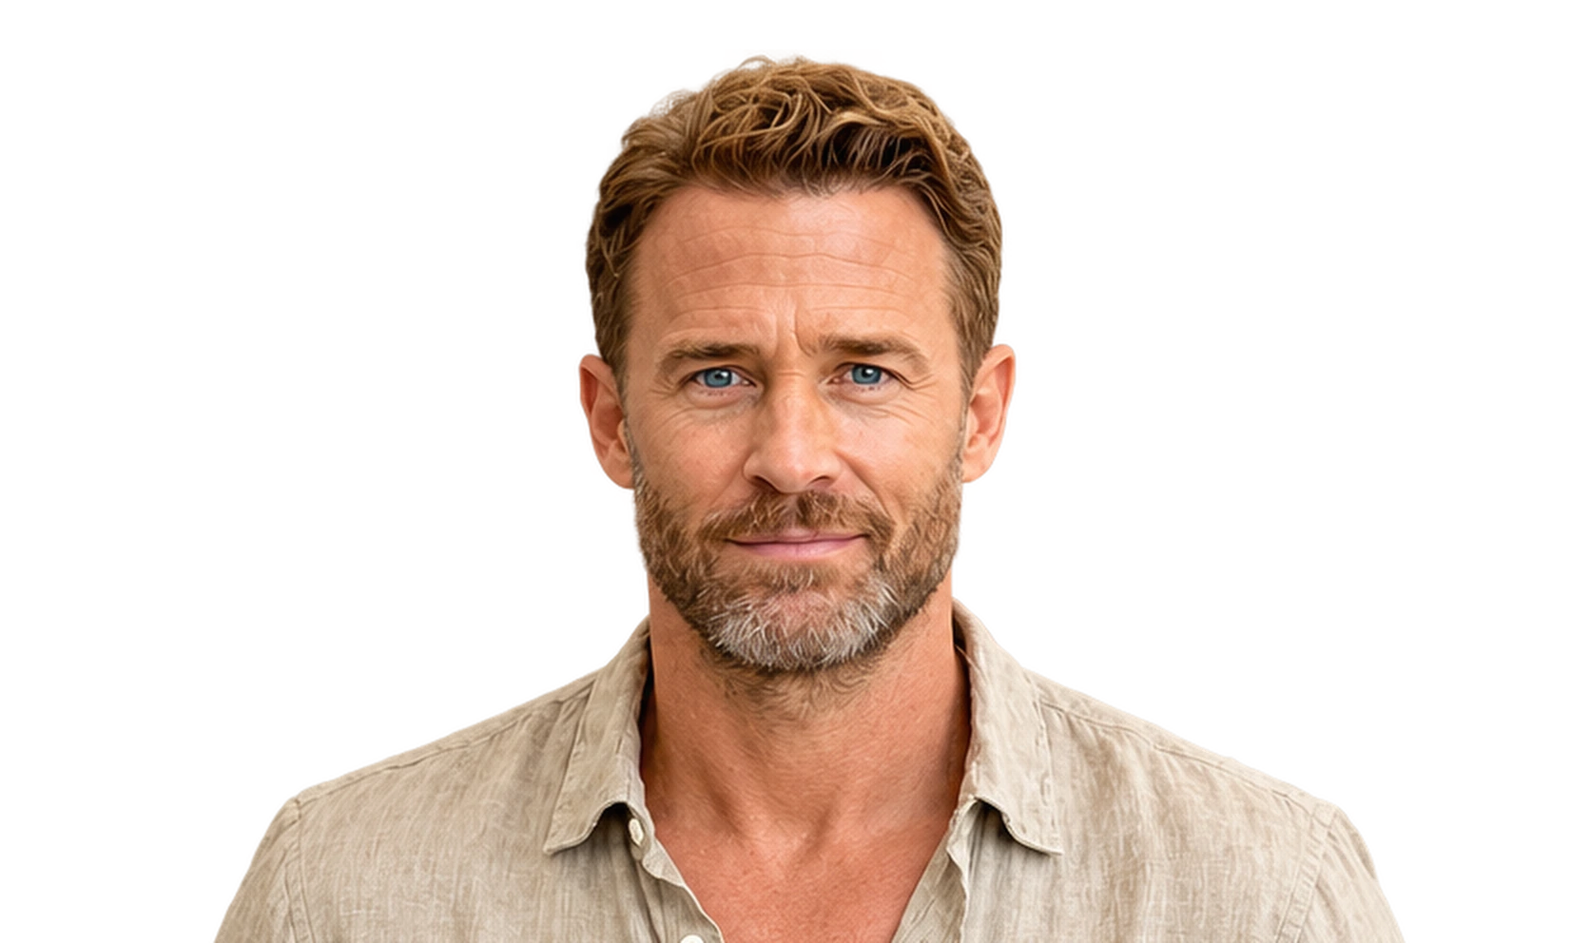
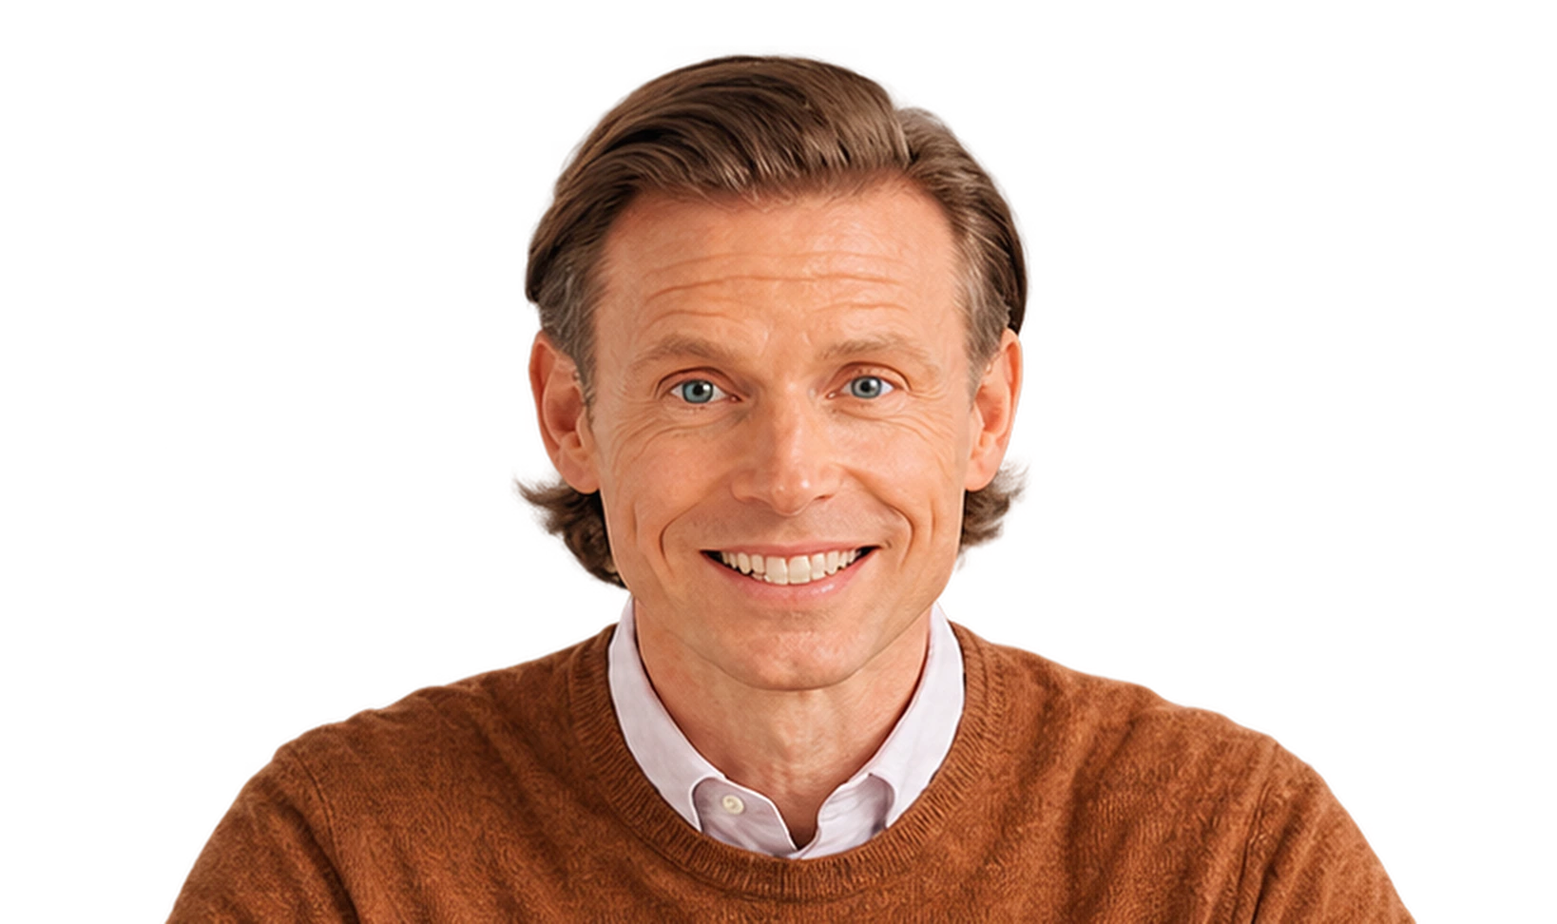
Use LiveAvatar characters for Lisa (Hannah) and Felix (Matthew), show the device section as a call
Hero portraits come from the transparent double portrait; laptop and phone
screens are catalogue stills with call controls drawn by the importer.

diff --git a/content/de/home.html b/content/de/home.html
@@ -46,8 +46,19 @@
 <div style="height:1px;background:linear-gradient(90deg,transparent,rgba(233,181,74,.6),transparent)"></div>
 
 <section style="display:flex;flex-wrap:wrap;align-items:center;gap:32px 48px;padding:36px 48px;background:url(/design/assets/bg-s2r.png) right top/min(30%,380px) auto no-repeat,url(/design/assets/bg-s2l.png) left center/min(11%,140px) auto no-repeat">
-  <div style="flex:1 1 440px;min-width:0;display:flex;justify-content:center">
-    <img src="/design/assets/call.webp" alt="Videogespräch mit Felix am Laptop und mit Lisa auf dem Smartphone" width="1498" height="896" style="display:block;width:100%;max-width:560px;height:auto">
+  <div style="flex:1 1 440px;min-width:0;display:flex;align-items:flex-end;justify-content:center">
+    <div style="flex:1;min-width:0;max-width:420px">
+      <div style="position:relative;aspect-ratio:16/10;border:8px solid #1c1c1e;border-radius:14px 14px 0 0;background:#000;overflow:hidden">
+        <img src="/design/assets/laptop.webp" alt="Video-Call Felix" style="position:absolute;inset:0;width:100%;height:100%;object-fit:cover;display:block"><div style="position:absolute;inset:0;container-type:inline-size;pointer-events:none;background:linear-gradient(180deg,rgba(0,0,0,.22),transparent 24%,transparent 68%,rgba(0,0,0,.38))"><span style="position:absolute;left:2.6cqw;top:2.6cqw;display:flex;align-items:center;gap:1.2000000000000002cqw;padding:0.828cqw 1.8399999999999999cqw;border-radius:99px;background:rgba(38,38,40,.86);font:600 2.3cqw/1.2 'Quicksand',sans-serif;color:#fff;font-variant-numeric:tabular-nums"><span style="display:block;width:1.5cqw;height:1.5cqw;border-radius:50%;background:#34c759"></span>00:12</span><span style="position:absolute;right:2.6cqw;top:2.6cqw;display:flex;gap:1.68cqw"><span style="display:flex;align-items:center;justify-content:center;flex:none;width:4.6cqw;height:4.6cqw;border-radius:50%;background:rgba(38,38,40,.86)"><svg viewBox="0 0 24 24" fill="none" stroke="#fff" stroke-width="2" stroke-linecap="round" stroke-linejoin="round" style="width:54%;height:54%"><path d="M4 9V4h5M15 4h5v5M20 15v5h-5M9 20H4v-5"/></svg></span><span style="display:flex;align-items:center;justify-content:center;flex:none;width:4.6cqw;height:4.6cqw;border-radius:50%;background:rgba(38,38,40,.86)"><svg viewBox="0 0 24 24" fill="none" stroke="#fff" stroke-width="2" stroke-linecap="round" stroke-linejoin="round" style="width:54%;height:54%"><circle cx="12" cy="12" r="3"/><path d="M12 3v3M12 18v3M3 12h3M18 12h3M5.600 5.600l2.100 2.100M16.300 16.300l2.100 2.100M18.400 5.600l-2.100 2.100M7.700 16.300l-2.100 2.100"/></svg></span></span><span style="position:absolute;left:0;right:0;bottom:3.6cqw;display:flex;align-items:center;justify-content:center;gap:2.4cqw"><span style="display:flex;align-items:center;justify-content:center;flex:none;width:5.8cqw;height:5.8cqw;border-radius:50%;background:rgba(38,38,40,.86)"><svg viewBox="0 0 24 24" fill="none" stroke="#fff" stroke-width="2" stroke-linecap="round" stroke-linejoin="round" style="width:54%;height:54%"><rect x="9" y="3" width="6" height="11" rx="3"/><path d="M5 11a7 7 0 0 0 14 0M12 18v3"/></svg></span><span style="display:flex;align-items:center;justify-content:center;flex:none;width:5.8cqw;height:5.8cqw;border-radius:50%;background:rgba(38,38,40,.86)"><svg viewBox="0 0 24 24" fill="none" stroke="#fff" stroke-width="2" stroke-linecap="round" stroke-linejoin="round" style="width:54%;height:54%"><rect x="3" y="7" width="12" height="10" rx="2"/><path d="M15 11l6-3v8l-6-3z"/></svg></span><span style="display:flex;align-items:center;justify-content:center;flex:none;width:6.8cqw;height:6.8cqw;border-radius:50%;background:#ff3b30"><svg viewBox="0 0 24 24" fill="none" stroke="#fff" stroke-width="2" stroke-linecap="round" stroke-linejoin="round" style="width:54%;height:54%"><path d="M2.5 14.2c5.4-5.2 13.6-5.2 19 0l-2.6 2.6-3.6-2v-2.6c-2.1-.7-4.5-.7-6.6 0v2.6l-3.6 2z" fill="#fff" stroke="none"/></svg></span><span style="display:flex;align-items:center;justify-content:center;flex:none;width:5.8cqw;height:5.8cqw;border-radius:50%;background:rgba(38,38,40,.86)"><svg viewBox="0 0 24 24" fill="none" stroke="#fff" stroke-width="2" stroke-linecap="round" stroke-linejoin="round" style="width:54%;height:54%"><circle cx="9" cy="9" r="3"/><path d="M3 19c0-3.3 2.7-5 6-5s6 1.700 6 5M16 6.500a3 3 0 0 1 0 5.500M17.500 14.500c2.200.600 3.500 2.100 3.500 4.500"/></svg></span><span style="display:flex;align-items:center;justify-content:center;flex:none;width:5.8cqw;height:5.8cqw;border-radius:50%;background:rgba(38,38,40,.86)"><svg viewBox="0 0 24 24" fill="none" stroke="#fff" stroke-width="2" stroke-linecap="round" stroke-linejoin="round" style="width:54%;height:54%"><path d="M4 5h16v11H9l-5 4z"/></svg></span></span></div>
+        
+        
+      </div>
+      <div style="height:12px;margin:0 -6%;background:linear-gradient(180deg,#d8d8da,#8a8a8e);border-radius:0 0 12px 12px"></div>
+    </div>
+    <div style="flex:none;width:112px;margin-left:-28px;position:relative;z-index:1;aspect-ratio:9/18;border:6px solid #1c1c1e;border-radius:22px;background:#000;overflow:hidden;box-shadow:0 8px 30px rgba(0,0,0,.6)">
+      <img src="/design/assets/phone.webp" alt="Lisa" style="position:absolute;inset:0;width:100%;height:100%;object-fit:cover;display:block"><div style="position:absolute;inset:0;container-type:inline-size;pointer-events:none;background:linear-gradient(180deg,rgba(0,0,0,.22),transparent 24%,transparent 68%,rgba(0,0,0,.38))"><span style="position:absolute;left:6cqw;top:9cqw;display:flex;align-items:center;gap:4cqw;padding:2.6999999999999997cqw 6cqw;border-radius:99px;background:rgba(38,38,40,.86);font:600 7.5cqw/1.2 'Quicksand',sans-serif;color:#fff;font-variant-numeric:tabular-nums"><span style="display:block;width:5cqw;height:5cqw;border-radius:50%;background:#34c759"></span>00:12</span><span style="position:absolute;right:6cqw;top:9cqw;display:flex;gap:1.8199999999999998cqw"><span style="display:flex;align-items:center;justify-content:center;flex:none;width:13cqw;height:13cqw;border-radius:50%;background:rgba(38,38,40,.86)"><svg viewBox="0 0 24 24" fill="none" stroke="#fff" stroke-width="2" stroke-linecap="round" stroke-linejoin="round" style="width:54%;height:54%"><path d="M4 9V4h5M15 4h5v5M20 15v5h-5M9 20H4v-5"/></svg></span></span><span style="position:absolute;right:6cqw;bottom:28cqw;display:block;width:27cqw;aspect-ratio:3/4;border-radius:4cqw;overflow:hidden;box-shadow:0 0 0 1px rgba(255,255,255,.55),0 2px 8px rgba(0,0,0,.5);background:url(/design/assets/laptop.webp) 50% 20%/260% auto no-repeat"></span><span style="position:absolute;left:0;right:0;bottom:7cqw;display:flex;align-items:center;justify-content:center;gap:2.6cqw"><span style="display:flex;align-items:center;justify-content:center;flex:none;width:13.5cqw;height:13.5cqw;border-radius:50%;background:rgba(38,38,40,.86)"><svg viewBox="0 0 24 24" fill="none" stroke="#fff" stroke-width="2" stroke-linecap="round" stroke-linejoin="round" style="width:54%;height:54%"><rect x="9" y="3" width="6" height="11" rx="3"/><path d="M5 11a7 7 0 0 0 14 0M12 18v3"/></svg></span><span style="display:flex;align-items:center;justify-content:center;flex:none;width:13.5cqw;height:13.5cqw;border-radius:50%;background:rgba(38,38,40,.86)"><svg viewBox="0 0 24 24" fill="none" stroke="#fff" stroke-width="2" stroke-linecap="round" stroke-linejoin="round" style="width:54%;height:54%"><rect x="3" y="7" width="12" height="10" rx="2"/><path d="M15 11l6-3v8l-6-3z"/></svg></span><span style="display:flex;align-items:center;justify-content:center;flex:none;width:16cqw;height:16cqw;border-radius:50%;background:#ff3b30"><svg viewBox="0 0 24 24" fill="none" stroke="#fff" stroke-width="2" stroke-linecap="round" stroke-linejoin="round" style="width:54%;height:54%"><path d="M2.5 14.2c5.4-5.2 13.6-5.2 19 0l-2.6 2.6-3.6-2v-2.6c-2.1-.7-4.5-.7-6.6 0v2.6l-3.6 2z" fill="#fff" stroke="none"/></svg></span><span style="display:flex;align-items:center;justify-content:center;flex:none;width:13.5cqw;height:13.5cqw;border-radius:50%;background:rgba(38,38,40,.86)"><svg viewBox="0 0 24 24" fill="none" stroke="#fff" stroke-width="2" stroke-linecap="round" stroke-linejoin="round" style="width:54%;height:54%"><circle cx="9" cy="9" r="3"/><path d="M3 19c0-3.3 2.7-5 6-5s6 1.700 6 5M16 6.500a3 3 0 0 1 0 5.500M17.500 14.500c2.200.600 3.500 2.100 3.500 4.500"/></svg></span><span style="display:flex;align-items:center;justify-content:center;flex:none;width:13.5cqw;height:13.5cqw;border-radius:50%;background:rgba(38,38,40,.86)"><svg viewBox="0 0 24 24" fill="none" stroke="#fff" stroke-width="2" stroke-linecap="round" stroke-linejoin="round" style="width:54%;height:54%"><path d="M4 5h16v11H9l-5 4z"/></svg></span></span></div>
+      
+    </div>
   </div>
   <div style="flex:1 1 360px;min-width:0">
     <h2 style="margin:0;font-size:clamp(26px,2.8vw,34px);line-height:1.2;font-weight:700">Ein echtes Gespräch.<br>Keine Chat-Funktion.</h2>

diff --git a/content/en/home.html b/content/en/home.html
@@ -46,8 +46,19 @@
 <div style="height:1px;background:linear-gradient(90deg,transparent,rgba(233,181,74,.6),transparent)"></div>
 
 <section style="display:flex;flex-wrap:wrap;align-items:center;gap:32px 48px;padding:36px 48px;background:url(/design/assets/bg-s2r.png) right top/min(30%,380px) auto no-repeat,url(/design/assets/bg-s2l.png) left center/min(11%,140px) auto no-repeat">
-  <div style="flex:1 1 440px;min-width:0;display:flex;justify-content:center">
-    <img src="/design/assets/call.webp" alt="Video call with Felix on a laptop and with Lisa on a phone" width="1498" height="896" style="display:block;width:100%;max-width:560px;height:auto">
+  <div style="flex:1 1 440px;min-width:0;display:flex;align-items:flex-end;justify-content:center">
+    <div style="flex:1;min-width:0;max-width:420px">
+      <div style="position:relative;aspect-ratio:16/10;border:8px solid #1c1c1e;border-radius:14px 14px 0 0;background:#000;overflow:hidden">
+        <img src="/design/assets/laptop.webp" alt="Video call Felix" style="position:absolute;inset:0;width:100%;height:100%;object-fit:cover;display:block"><div style="position:absolute;inset:0;container-type:inline-size;pointer-events:none;background:linear-gradient(180deg,rgba(0,0,0,.22),transparent 24%,transparent 68%,rgba(0,0,0,.38))"><span style="position:absolute;left:2.6cqw;top:2.6cqw;display:flex;align-items:center;gap:1.2000000000000002cqw;padding:0.828cqw 1.8399999999999999cqw;border-radius:99px;background:rgba(38,38,40,.86);font:600 2.3cqw/1.2 'Quicksand',sans-serif;color:#fff;font-variant-numeric:tabular-nums"><span style="display:block;width:1.5cqw;height:1.5cqw;border-radius:50%;background:#34c759"></span>00:12</span><span style="position:absolute;right:2.6cqw;top:2.6cqw;display:flex;gap:1.68cqw"><span style="display:flex;align-items:center;justify-content:center;flex:none;width:4.6cqw;height:4.6cqw;border-radius:50%;background:rgba(38,38,40,.86)"><svg viewBox="0 0 24 24" fill="none" stroke="#fff" stroke-width="2" stroke-linecap="round" stroke-linejoin="round" style="width:54%;height:54%"><path d="M4 9V4h5M15 4h5v5M20 15v5h-5M9 20H4v-5"/></svg></span><span style="display:flex;align-items:center;justify-content:center;flex:none;width:4.6cqw;height:4.6cqw;border-radius:50%;background:rgba(38,38,40,.86)"><svg viewBox="0 0 24 24" fill="none" stroke="#fff" stroke-width="2" stroke-linecap="round" stroke-linejoin="round" style="width:54%;height:54%"><circle cx="12" cy="12" r="3"/><path d="M12 3v3M12 18v3M3 12h3M18 12h3M5.600 5.600l2.100 2.100M16.300 16.300l2.100 2.100M18.400 5.600l-2.100 2.100M7.700 16.300l-2.100 2.100"/></svg></span></span><span style="position:absolute;left:0;right:0;bottom:3.6cqw;display:flex;align-items:center;justify-content:center;gap:2.4cqw"><span style="display:flex;align-items:center;justify-content:center;flex:none;width:5.8cqw;height:5.8cqw;border-radius:50%;background:rgba(38,38,40,.86)"><svg viewBox="0 0 24 24" fill="none" stroke="#fff" stroke-width="2" stroke-linecap="round" stroke-linejoin="round" style="width:54%;height:54%"><rect x="9" y="3" width="6" height="11" rx="3"/><path d="M5 11a7 7 0 0 0 14 0M12 18v3"/></svg></span><span style="display:flex;align-items:center;justify-content:center;flex:none;width:5.8cqw;height:5.8cqw;border-radius:50%;background:rgba(38,38,40,.86)"><svg viewBox="0 0 24 24" fill="none" stroke="#fff" stroke-width="2" stroke-linecap="round" stroke-linejoin="round" style="width:54%;height:54%"><rect x="3" y="7" width="12" height="10" rx="2"/><path d="M15 11l6-3v8l-6-3z"/></svg></span><span style="display:flex;align-items:center;justify-content:center;flex:none;width:6.8cqw;height:6.8cqw;border-radius:50%;background:#ff3b30"><svg viewBox="0 0 24 24" fill="none" stroke="#fff" stroke-width="2" stroke-linecap="round" stroke-linejoin="round" style="width:54%;height:54%"><path d="M2.5 14.2c5.4-5.2 13.6-5.2 19 0l-2.6 2.6-3.6-2v-2.6c-2.1-.7-4.5-.7-6.6 0v2.6l-3.6 2z" fill="#fff" stroke="none"/></svg></span><span style="display:flex;align-items:center;justify-content:center;flex:none;width:5.8cqw;height:5.8cqw;border-radius:50%;background:rgba(38,38,40,.86)"><svg viewBox="0 0 24 24" fill="none" stroke="#fff" stroke-width="2" stroke-linecap="round" stroke-linejoin="round" style="width:54%;height:54%"><circle cx="9" cy="9" r="3"/><path d="M3 19c0-3.3 2.7-5 6-5s6 1.700 6 5M16 6.500a3 3 0 0 1 0 5.500M17.500 14.500c2.200.600 3.500 2.100 3.500 4.500"/></svg></span><span style="display:flex;align-items:center;justify-content:center;flex:none;width:5.8cqw;height:5.8cqw;border-radius:50%;background:rgba(38,38,40,.86)"><svg viewBox="0 0 24 24" fill="none" stroke="#fff" stroke-width="2" stroke-linecap="round" stroke-linejoin="round" style="width:54%;height:54%"><path d="M4 5h16v11H9l-5 4z"/></svg></span></span></div>
+        
+        
+      </div>
+      <div style="height:12px;margin:0 -6%;background:linear-gradient(180deg,#d8d8da,#8a8a8e);border-radius:0 0 12px 12px"></div>
+    </div>
+    <div style="flex:none;width:112px;margin-left:-28px;position:relative;z-index:1;aspect-ratio:9/18;border:6px solid #1c1c1e;border-radius:22px;background:#000;overflow:hidden;box-shadow:0 8px 30px rgba(0,0,0,.6)">
+      <img src="/design/assets/phone.webp" alt="Lisa" style="position:absolute;inset:0;width:100%;height:100%;object-fit:cover;display:block"><div style="position:absolute;inset:0;container-type:inline-size;pointer-events:none;background:linear-gradient(180deg,rgba(0,0,0,.22),transparent 24%,transparent 68%,rgba(0,0,0,.38))"><span style="position:absolute;left:6cqw;top:9cqw;display:flex;align-items:center;gap:4cqw;padding:2.6999999999999997cqw 6cqw;border-radius:99px;background:rgba(38,38,40,.86);font:600 7.5cqw/1.2 'Quicksand',sans-serif;color:#fff;font-variant-numeric:tabular-nums"><span style="display:block;width:5cqw;height:5cqw;border-radius:50%;background:#34c759"></span>00:12</span><span style="position:absolute;right:6cqw;top:9cqw;display:flex;gap:1.8199999999999998cqw"><span style="display:flex;align-items:center;justify-content:center;flex:none;width:13cqw;height:13cqw;border-radius:50%;background:rgba(38,38,40,.86)"><svg viewBox="0 0 24 24" fill="none" stroke="#fff" stroke-width="2" stroke-linecap="round" stroke-linejoin="round" style="width:54%;height:54%"><path d="M4 9V4h5M15 4h5v5M20 15v5h-5M9 20H4v-5"/></svg></span></span><span style="position:absolute;right:6cqw;bottom:28cqw;display:block;width:27cqw;aspect-ratio:3/4;border-radius:4cqw;overflow:hidden;box-shadow:0 0 0 1px rgba(255,255,255,.55),0 2px 8px rgba(0,0,0,.5);background:url(/design/assets/laptop.webp) 50% 20%/260% auto no-repeat"></span><span style="position:absolute;left:0;right:0;bottom:7cqw;display:flex;align-items:center;justify-content:center;gap:2.6cqw"><span style="display:flex;align-items:center;justify-content:center;flex:none;width:13.5cqw;height:13.5cqw;border-radius:50%;background:rgba(38,38,40,.86)"><svg viewBox="0 0 24 24" fill="none" stroke="#fff" stroke-width="2" stroke-linecap="round" stroke-linejoin="round" style="width:54%;height:54%"><rect x="9" y="3" width="6" height="11" rx="3"/><path d="M5 11a7 7 0 0 0 14 0M12 18v3"/></svg></span><span style="display:flex;align-items:center;justify-content:center;flex:none;width:13.5cqw;height:13.5cqw;border-radius:50%;background:rgba(38,38,40,.86)"><svg viewBox="0 0 24 24" fill="none" stroke="#fff" stroke-width="2" stroke-linecap="round" stroke-linejoin="round" style="width:54%;height:54%"><rect x="3" y="7" width="12" height="10" rx="2"/><path d="M15 11l6-3v8l-6-3z"/></svg></span><span style="display:flex;align-items:center;justify-content:center;flex:none;width:16cqw;height:16cqw;border-radius:50%;background:#ff3b30"><svg viewBox="0 0 24 24" fill="none" stroke="#fff" stroke-width="2" stroke-linecap="round" stroke-linejoin="round" style="width:54%;height:54%"><path d="M2.5 14.2c5.4-5.2 13.6-5.2 19 0l-2.6 2.6-3.6-2v-2.6c-2.1-.7-4.5-.7-6.6 0v2.6l-3.6 2z" fill="#fff" stroke="none"/></svg></span><span style="display:flex;align-items:center;justify-content:center;flex:none;width:13.5cqw;height:13.5cqw;border-radius:50%;background:rgba(38,38,40,.86)"><svg viewBox="0 0 24 24" fill="none" stroke="#fff" stroke-width="2" stroke-linecap="round" stroke-linejoin="round" style="width:54%;height:54%"><circle cx="9" cy="9" r="3"/><path d="M3 19c0-3.3 2.7-5 6-5s6 1.700 6 5M16 6.500a3 3 0 0 1 0 5.500M17.500 14.500c2.200.600 3.500 2.100 3.500 4.500"/></svg></span><span style="display:flex;align-items:center;justify-content:center;flex:none;width:13.5cqw;height:13.5cqw;border-radius:50%;background:rgba(38,38,40,.86)"><svg viewBox="0 0 24 24" fill="none" stroke="#fff" stroke-width="2" stroke-linecap="round" stroke-linejoin="round" style="width:54%;height:54%"><path d="M4 5h16v11H9l-5 4z"/></svg></span></span></div>
+      
+    </div>
   </div>
   <div style="flex:1 1 360px;min-width:0">
     <h2 style="margin:0;font-size:clamp(26px,2.8vw,34px);line-height:1.2;font-weight:700">A real conversation.<br>Not a chat.</h2>

diff --git a/scripts/make-portraits.py b/scripts/make-portraits.py
@@ -1,14 +1,11 @@
 """
-Build the site's pictures of Lisa and Felix from the two uploads in
-design-export/uploads/:
+Build the site's pictures of Lisa and Felix. Felix is the HeyGen LiveAvatar
+character "Matthew", Lisa is "Hannah" (the ones used in the live conversation).
 
-  Portraits professionnels sur fond transparent.png
-      Lisa (left) and Felix (right), already without background.
-      -> assets/lisa.webp, assets/felix.webp (transparent, hero framing)
-
-  Appel vidéo sur ordinateur et smartphone.png
-      Laptop and phone in a video call, on white.
-      -> assets/call.webp (white removed, so it sits on the dark page)
+  design-export/uploads/duo.png      both, already without background
+      -> assets/lisa.webp, assets/felix.webp   (hero portraits)
+  design-export/live/*.jpg           stills from the LiveAvatar catalogue
+      -> assets/laptop.webp, assets/phone.webp (call screens, room kept)
 
 The importer prefers a .webp in design-export/assets/ over the export's own
 .png of the same name; run scripts/import-design.mjs afterwards.
@@ -16,30 +13,38 @@ The importer prefers a .webp in design-export/assets/ over the export's own
     python scripts/make-portraits.py
 """
 import os
+import sys
 
 import cv2
 import numpy as np
 
 ROOT = os.path.join(os.path.dirname(os.path.abspath(__file__)), '..')
-SRC = os.path.join(ROOT, 'design-export', 'uploads')
+SRC = os.path.join(ROOT, 'design-export', 'live')
 OUT = os.path.join(ROOT, 'design-export', 'assets')
 
-PORTRAITS = 'Portraits professionnels sur fond transparent.png'
-CALL = 'Appel vidéo sur ordinateur et smartphone.png'
-
-# The hero frame is 300:178. Each portrait: columns of the person in the
-# upload, the column their face is centred on, and how far down to show.
+# Hero portraits: the frame is 300:178. For each person: their columns in the
+# double portrait, the column their face is centred on, and the rows to show.
+DUO = os.path.join(ROOT, 'design-export', 'uploads', 'duo.png')
 FRAME = 300 / 178
+TOP_PAD = 24
+SCALE = 2
 PEOPLE = {
-    'lisa': {'cols': (130, 750), 'centre': 432, 'rows': (0, 470), 'top_pad': 26},
-    'felix': {'cols': (755, 1536), 'centre': 1142, 'rows': (0, 470), 'top_pad': 26},
+    'lisa': {'cols': (244, 1034), 'centre': 653, 'rows': (0, 462)},
+    'felix': {'cols': (1034, 1896), 'centre': 1455, 'rows': (0, 462)},
 }
-SCALE = 2  # the upload is small; a clean 2x keeps edges smooth on big screens
+
+# Call screens: (source, crop box x0,y0,x1,y1 in source pixels, output width)
+SCREENS = {
+    'laptop': ('matthew.jpg', (300, 70, 1620, 895), 1320),  # 16:10
+    'phone': ('hannah-3.jpg', (675, 20, 1195, 1060), 520),  # 9:18
+}
 
 
-def read(name, flags=cv2.IMREAD_UNCHANGED):
-    data = np.fromfile(os.path.join(SRC, name), dtype=np.uint8)
-    return cv2.imdecode(data, flags)
+def read(name):
+    img = cv2.imdecode(np.fromfile(os.path.join(SRC, name), dtype=np.uint8), cv2.IMREAD_COLOR)
+    if img is None:
+        sys.exit(f'missing {name}')
+    return img
 
 
 def write(name, img, quality):
@@ -49,44 +54,35 @@ def write(name, img, quality):
 
 
 def portraits():
-    src = read(PORTRAITS).astype(np.float32) / 255.0  # BGRA
+    """Lisa (left) and Felix (right) from the transparent double portrait."""
+    data = np.fromfile(DUO, dtype=np.uint8)
+    src = cv2.imdecode(data, cv2.IMREAD_UNCHANGED).astype(np.float32) / 255.0  # BGRA
     for name, p in PEOPLE.items():
         x0, x1 = p['cols']
         y0, y1 = p['rows']
-        h = p['top_pad'] + (y1 - y0)
+        h = TOP_PAD + (y1 - y0)
         w = int(round(h * FRAME))
         canvas = np.zeros((h, w, 4), np.float32)
         left = w // 2 - (p['centre'] - x0)  # where the person's first column lands
         a, b = max(0, left), min(w, left + (x1 - x0))
-        canvas[p['top_pad']:, a:b] = src[y0:y1, x0 + (a - left):x0 + (b - left)]
+        canvas[TOP_PAD:, a:b] = src[y0:y1, x0 + (a - left):x0 + (b - left)]
         # Scale with premultiplied alpha so no fringe appears along the edge.
-        pre = canvas.copy()
-        pre[..., :3] *= pre[..., 3:]
-        pre = cv2.resize(pre, (w * SCALE, h * SCALE), interpolation=cv2.INTER_LANCZOS4)
-        pre = np.clip(pre, 0, 1)
+        canvas[..., :3] *= canvas[..., 3:]
+        pre = np.clip(cv2.resize(canvas, (w * SCALE, h * SCALE), interpolation=cv2.INTER_LANCZOS4), 0, 1)
         alpha = pre[..., 3:]
         pre[..., :3] = np.clip(pre[..., :3] / np.maximum(alpha, 1e-4), 0, 1)
         write(f'{name}.webp', (pre * 255).round().astype(np.uint8), 92)
 
 
-def call():
-    img = read(CALL, cv2.IMREAD_COLOR)
-    # Everything light that is connected to the picture's border is backdrop;
-    # the devices' dark bezels stop the fill from reaching the screens.
-    light = (img.min(axis=2) > 200).astype(np.uint8)
-    _, labels = cv2.connectedComponents(light, connectivity=4)
-    edge = np.unique(np.concatenate([labels[0], labels[-1], labels[:, 0], labels[:, -1]]))
-    backdrop = np.isin(labels, edge[edge != 0]).astype(np.uint8)
-    # Take one more pixel off the devices (the light anti-aliased rim), then soften.
-    backdrop = cv2.dilate(backdrop, np.ones((3, 3), np.uint8), iterations=2)
-    alpha = cv2.GaussianBlur((1 - backdrop).astype(np.float32), (3, 3), 0)
-
-    ys, xs = np.where(alpha > 0.5)
-    y0, y1, x0, x1 = ys.min() - 4, ys.max() + 5, xs.min() - 4, xs.max() + 5
-    rgba = np.dstack([img, (alpha * 255).astype(np.uint8)])[max(0, y0):y1, max(0, x0):x1]
-    write('call.webp', rgba, 92)
+def screens():
+    for name, (src, (x0, y0, x1, y1), out_w) in SCREENS.items():
+        img = read(src)[y0:y1, x0:x1]
+        out_h = int(round(img.shape[0] * out_w / img.shape[1]))
+        if out_w != img.shape[1]:
+            img = cv2.resize(img, (out_w, out_h), interpolation=cv2.INTER_AREA)
+        write(f'{name}.webp', img, 88)
 
 
 if __name__ == '__main__':
+    screens()
     portraits()
-    call()

diff --git a/README.md b/README.md
@@ -27,9 +27,12 @@ markup; `.dc` in `app/globals.css` shields it from every other style so only the
 The importer also fills two gaps the export leaves open: the two plans on the pricing page
 (Basic 59 €, Plus 99 €) and the footer's legal links.
 
-**Pictures of Lisa and Felix:** they come from the two files in `design-export/uploads/`
-(the transparent double portrait and the laptop/phone call mock-up). To change them, replace
-those files, run `python scripts/make-portraits.py`, then the importer again.
+**Pictures of Lisa and Felix:** Felix is the HeyGen LiveAvatar character "Matthew", Lisa is
+"Hannah" (the characters used in the live conversation). The transparent double
+portrait is `design-export/uploads/duo.png`, the catalogue stills are in `design-export/live/`.
+`python scripts/make-portraits.py` turns them into the hero portraits and the laptop/phone
+call screens; run the importer again afterwards. The call
+controls on the two screens are drawn by the importer.
 
 ## Pages
 
